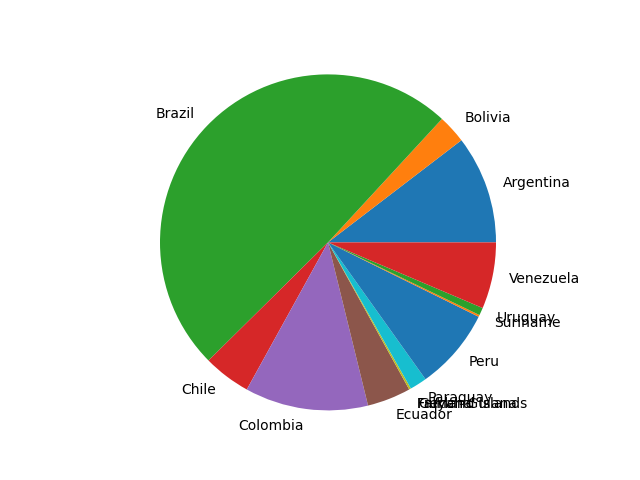
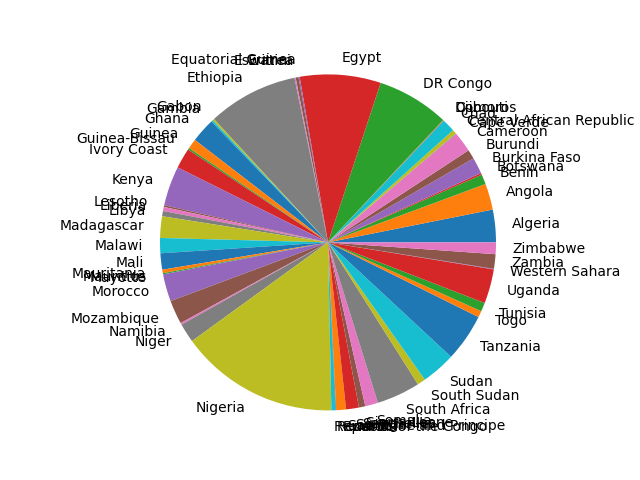
last changes

Changed region(s): [[0.0938, 0.0938, 1.0, 0.9062]]

diff --git a/app/main.py b/app/main.py
@@ -1,15 +1,26 @@
 import utils
 import read_csv
 import charts
+import pandas as pd
 
 def run():
   data = read_csv.read_csv('data.csv')
+  
+  '''
   data = list(filter(lambda item: item['Continent'] == 'South America', data))
 
   countries = list(map(lambda x: x['Country/Territory'], data))
   percentages = list(map(lambda x: x['World Population Percentage'], data))
-  charts.generate_pie_chart(countries, percentages)
+  '''
+  
+  df = pd.read_csv('data.csv')
+  df = df[df['Continent']=='Africa']
 
+  countries = df['Country/Territory'].values
+  percentages = df['World Population Percentage'].values
+
+  charts.generate_pie_chart(countries, percentages)
+  
   country = input('Type Country => ')
   print(country)
 

diff --git a/web-server/main.py b/web-server/main.py
@@ -1,0 +1,23 @@
+import store
+from fastapi import FastAPI
+from fastapi.responses import HTMLResponse
+
+app = FastAPI()
+
+@app.get('/') # decorador
+def get_list():
+	return[1,2,3]
+
+@app.get('/contact', response_class=HTMLResponse) # decorador
+def get_list():
+	return """
+		<h1>Hola soy una página</h1>
+		<p>soy un párrafo</p>
+	"""
+
+import store
+def run():
+	store.get_categories()
+
+if __name__ == '__main__':
+	run()

diff --git a/web-server/store.py b/web-server/store.py
@@ -1,0 +1,9 @@
+import requests
+def get_categories():
+	r = requests.get('https://api.escuelajs.co/api/v1/products')
+	print(r.status_code)
+	print(r.text)
+	print(type(r.text)) # muestra formato lista
+	categories = r.json() # lo pasa a formato lista json
+	for category in categories:
+		print(category['title'])

diff --git a/app/charts.py b/app/charts.py
@@ -10,7 +10,7 @@ def generate_pie_chart(labels, values):
   fig, ax = plt.subplots()
   ax.pie(values, labels=labels)
   ax.axis('equal')
-  plt.savefig('pie.png')
+  plt.savefig('chart_pie.png')
   plt.close()
 
 if __name__ == '__main__':
